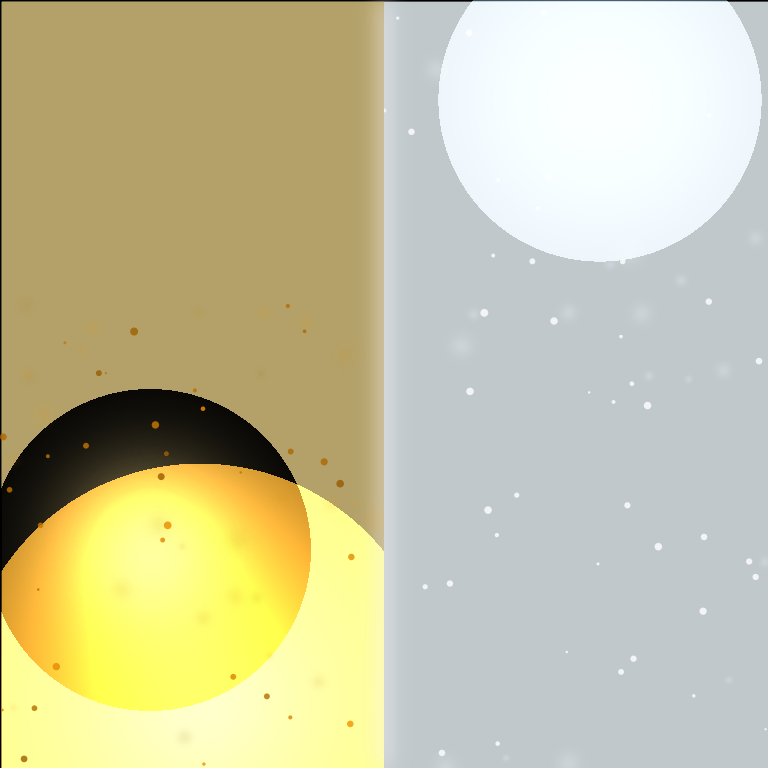
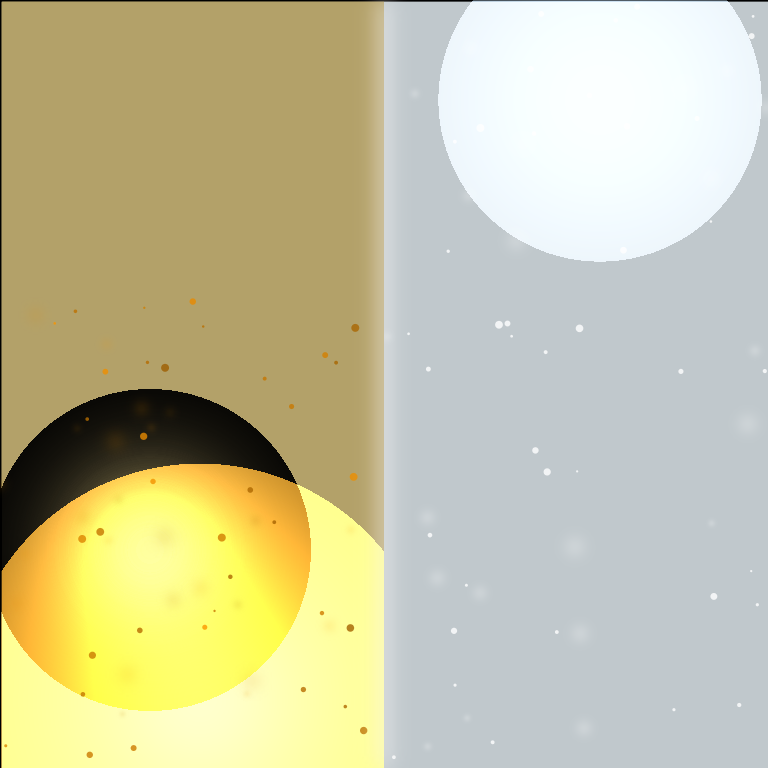
:wrench:

Changed region(s): [[0.625, 0.4062, 0.6562, 0.4375], [0.1875, 0.4688, 0.2188, 0.5], [0.125, 0.4688, 0.1562, 0.5]]

diff --git a/packages/skia/src/renderer/__tests__/e2e/LightingImageFilters.spec.tsx b/packages/skia/src/renderer/__tests__/e2e/LightingImageFilters.spec.tsx
@@ -146,30 +146,24 @@ describe("Lighting Image Filters", () => {
         const sur = Skia.Surface.MakeOffscreen(768, 768)!;
         const canvas = sur.getCanvas();
 
-        // Create a black background for maximum contrast
+        // Create a dark background (not completely black) for better visibility
         const bgPaint = Skia.Paint();
-        bgPaint.setColor(Skia.Color("rgb(0, 0, 0)"));
+        bgPaint.setColor(Skia.Color("rgb(10, 10, 15)"));
         canvas.drawRect(Skia.XYWHRect(0, 0, 768, 768), bgPaint);
 
         // Create a glowing center effect
         const paint = Skia.Paint();
 
-        // Preprocess the image to enhance edge contrast
-        const preprocessFilter = Skia.ImageFilter.MakeBlur(
-          3,
-          3,
-          ctx.TileMode.Decal
-        );
-
         // Position light inside the image for a glowing core effect
-        const location = { x: 384, y: 384, z: -100 }; // Negative Z places light behind/inside image
+        // Moved light closer to surface (z is now positive)
+        const location = { x: 384, y: 384, z: 200 };
 
         // Light color (intense orange-yellow for a fiery glow)
         const lightColor = Skia.Color("rgb(255, 200, 50)");
 
         // Parameters for the filter
-        const surfaceScale = 3.0; // Exaggerated height effect
-        const kd = 3.0; // Very strong diffuse reflection
+        const surfaceScale = 2.0; // Height effect
+        const kd = 1.5; // Diffuse reflection strength
 
         // Create the point light diffuse filter
         const pointLitFilter = Skia.ImageFilter.MakePointLitDiffuse(
@@ -177,31 +171,31 @@ describe("Lighting Image Filters", () => {
           lightColor,
           surfaceScale,
           kd,
-          preprocessFilter, // Use blurred image input for smoother edges
+          null, // Use source bitmap as input
           null // No crop rect
         );
 
         // Set the filter to our paint
         paint.setImageFilter(pointLitFilter);
 
-        // Add a slight blue color to outer areas
+        // Add a color boost to make the effect more visible
         paint.setColorFilter(
           Skia.ColorFilter.MakeMatrix([
+            1.2,
+            0,
+            0,
+            0,
+            20, // Boosted red
+            0,
+            1.1,
+            0,
+            0,
+            10, // Boosted green
+            0,
+            0,
             1.0,
             0,
-            0,
-            0,
-            0, // Red unchanged
-            0,
-            0.9,
-            0.1,
-            0,
-            0, // Green slightly reduced
-            0,
-            0.2,
-            0.8,
-            0,
-            20, // Boost blue in darker areas
+            0, // Blue unchanged
             0,
             0,
             0,
@@ -213,32 +207,27 @@ describe("Lighting Image Filters", () => {
         // Draw the image with the glowing core effect
         canvas.drawImage(ctx.skiaLogoPng, 0, 0, paint);
 
-        // Add an outer glow effect
-        const glowPaint = Skia.Paint();
-
-        // Position second light further away for outer glow
-        const outerLocation = { x: 384, y: 384, z: 500 };
-        const outerLightColor = Skia.Color("rgb(80, 130, 255)"); // Blue outer glow
-
-        const outerFilter = Skia.ImageFilter.MakePointLitDiffuse(
-          outerLocation,
-          outerLightColor,
+        // Add a second layer of lighting for more intensity
+        const accentPaint = Skia.Paint();
+        const accentFilter = Skia.ImageFilter.MakePointLitDiffuse(
+          { x: 384, y: 384, z: 50 }, // Closer light source
+          Skia.Color("rgb(255, 255, 200)"), // Brighter light
           surfaceScale * 0.5,
-          kd * 0.3, // Weaker diffuse for subtler effect
-          preprocessFilter,
+          kd * 0.8,
+          null,
           null
         );
 
-        glowPaint.setImageFilter(outerFilter);
-        glowPaint.setBlendMode(ctx.BlendMode.Screen); // Screen blend for additive light effect
+        accentPaint.setImageFilter(accentFilter);
+        accentPaint.setBlendMode(ctx.BlendMode.Plus); // Additive lighting
 
-        // Draw a second pass with outer glow
-        canvas.drawImage(ctx.skiaLogoPng, 0, 0, glowPaint);
+        // Draw second layer
+        canvas.drawImage(ctx.skiaLogoPng, 0, 0, accentPaint);
 
         sur.flush();
         return sur.makeImageSnapshot().encodeToBase64();
       },
-      { skiaLogoPng, TileMode, BlendMode }
+      { skiaLogoPng, BlendMode }
     );
     checkResult(base64, "lighting-image-filters/point-lit-diffuse.png");
   });
@@ -350,13 +339,13 @@ describe("Lighting Image Filters", () => {
         // Draw 12 light rays from the main spotlight
         for (let i = 0; i < 12; i++) {
           const angle = (i / 12) * Math.PI * 0.5 + Math.PI * 0.75; // Angles for right-top quadrant
-          const length = 300 + Math.random() * 200;
+          const length = 300 + 0.5 * 200;
           const endX = lightX + Math.cos(angle) * length;
           const endY = lightY + Math.sin(angle) * length;
 
           const rayPaint = Skia.Paint();
           rayPaint.setColor(Skia.Color("rgba(255, 230, 180, 0.1)"));
-          rayPaint.setStrokeWidth(2 + Math.random() * 4);
+          rayPaint.setStrokeWidth(2 + 0.5 * 4);
           rayPaint.setStyle(ctx.PaintStyle.Stroke);
           rayPaint.setImageFilter(
             Skia.ImageFilter.MakeBlur(3, 3, ctx.TileMode.Decal)
